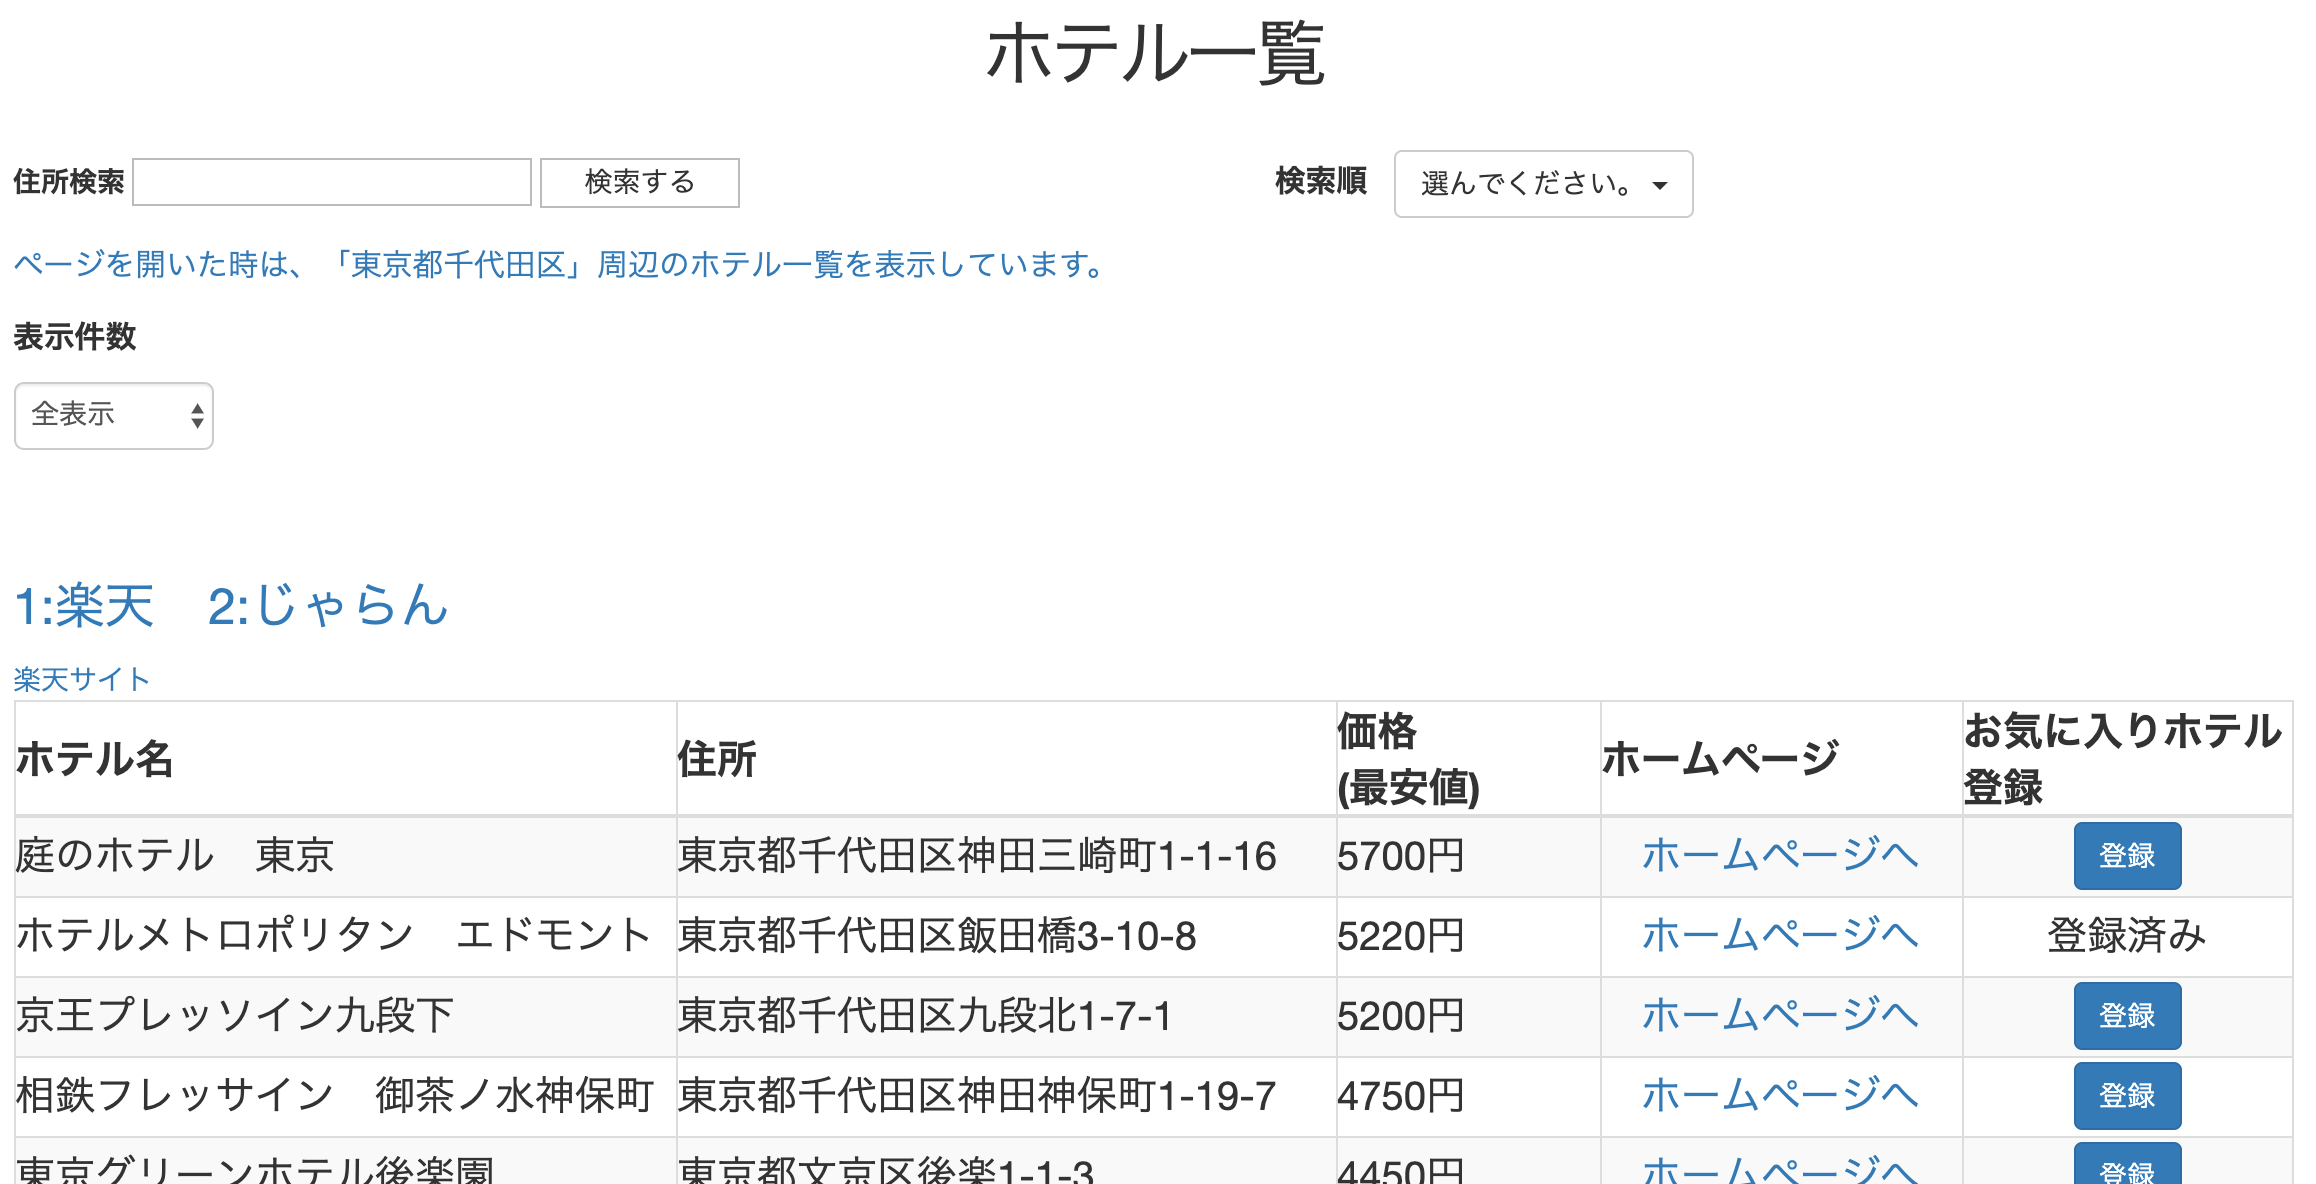
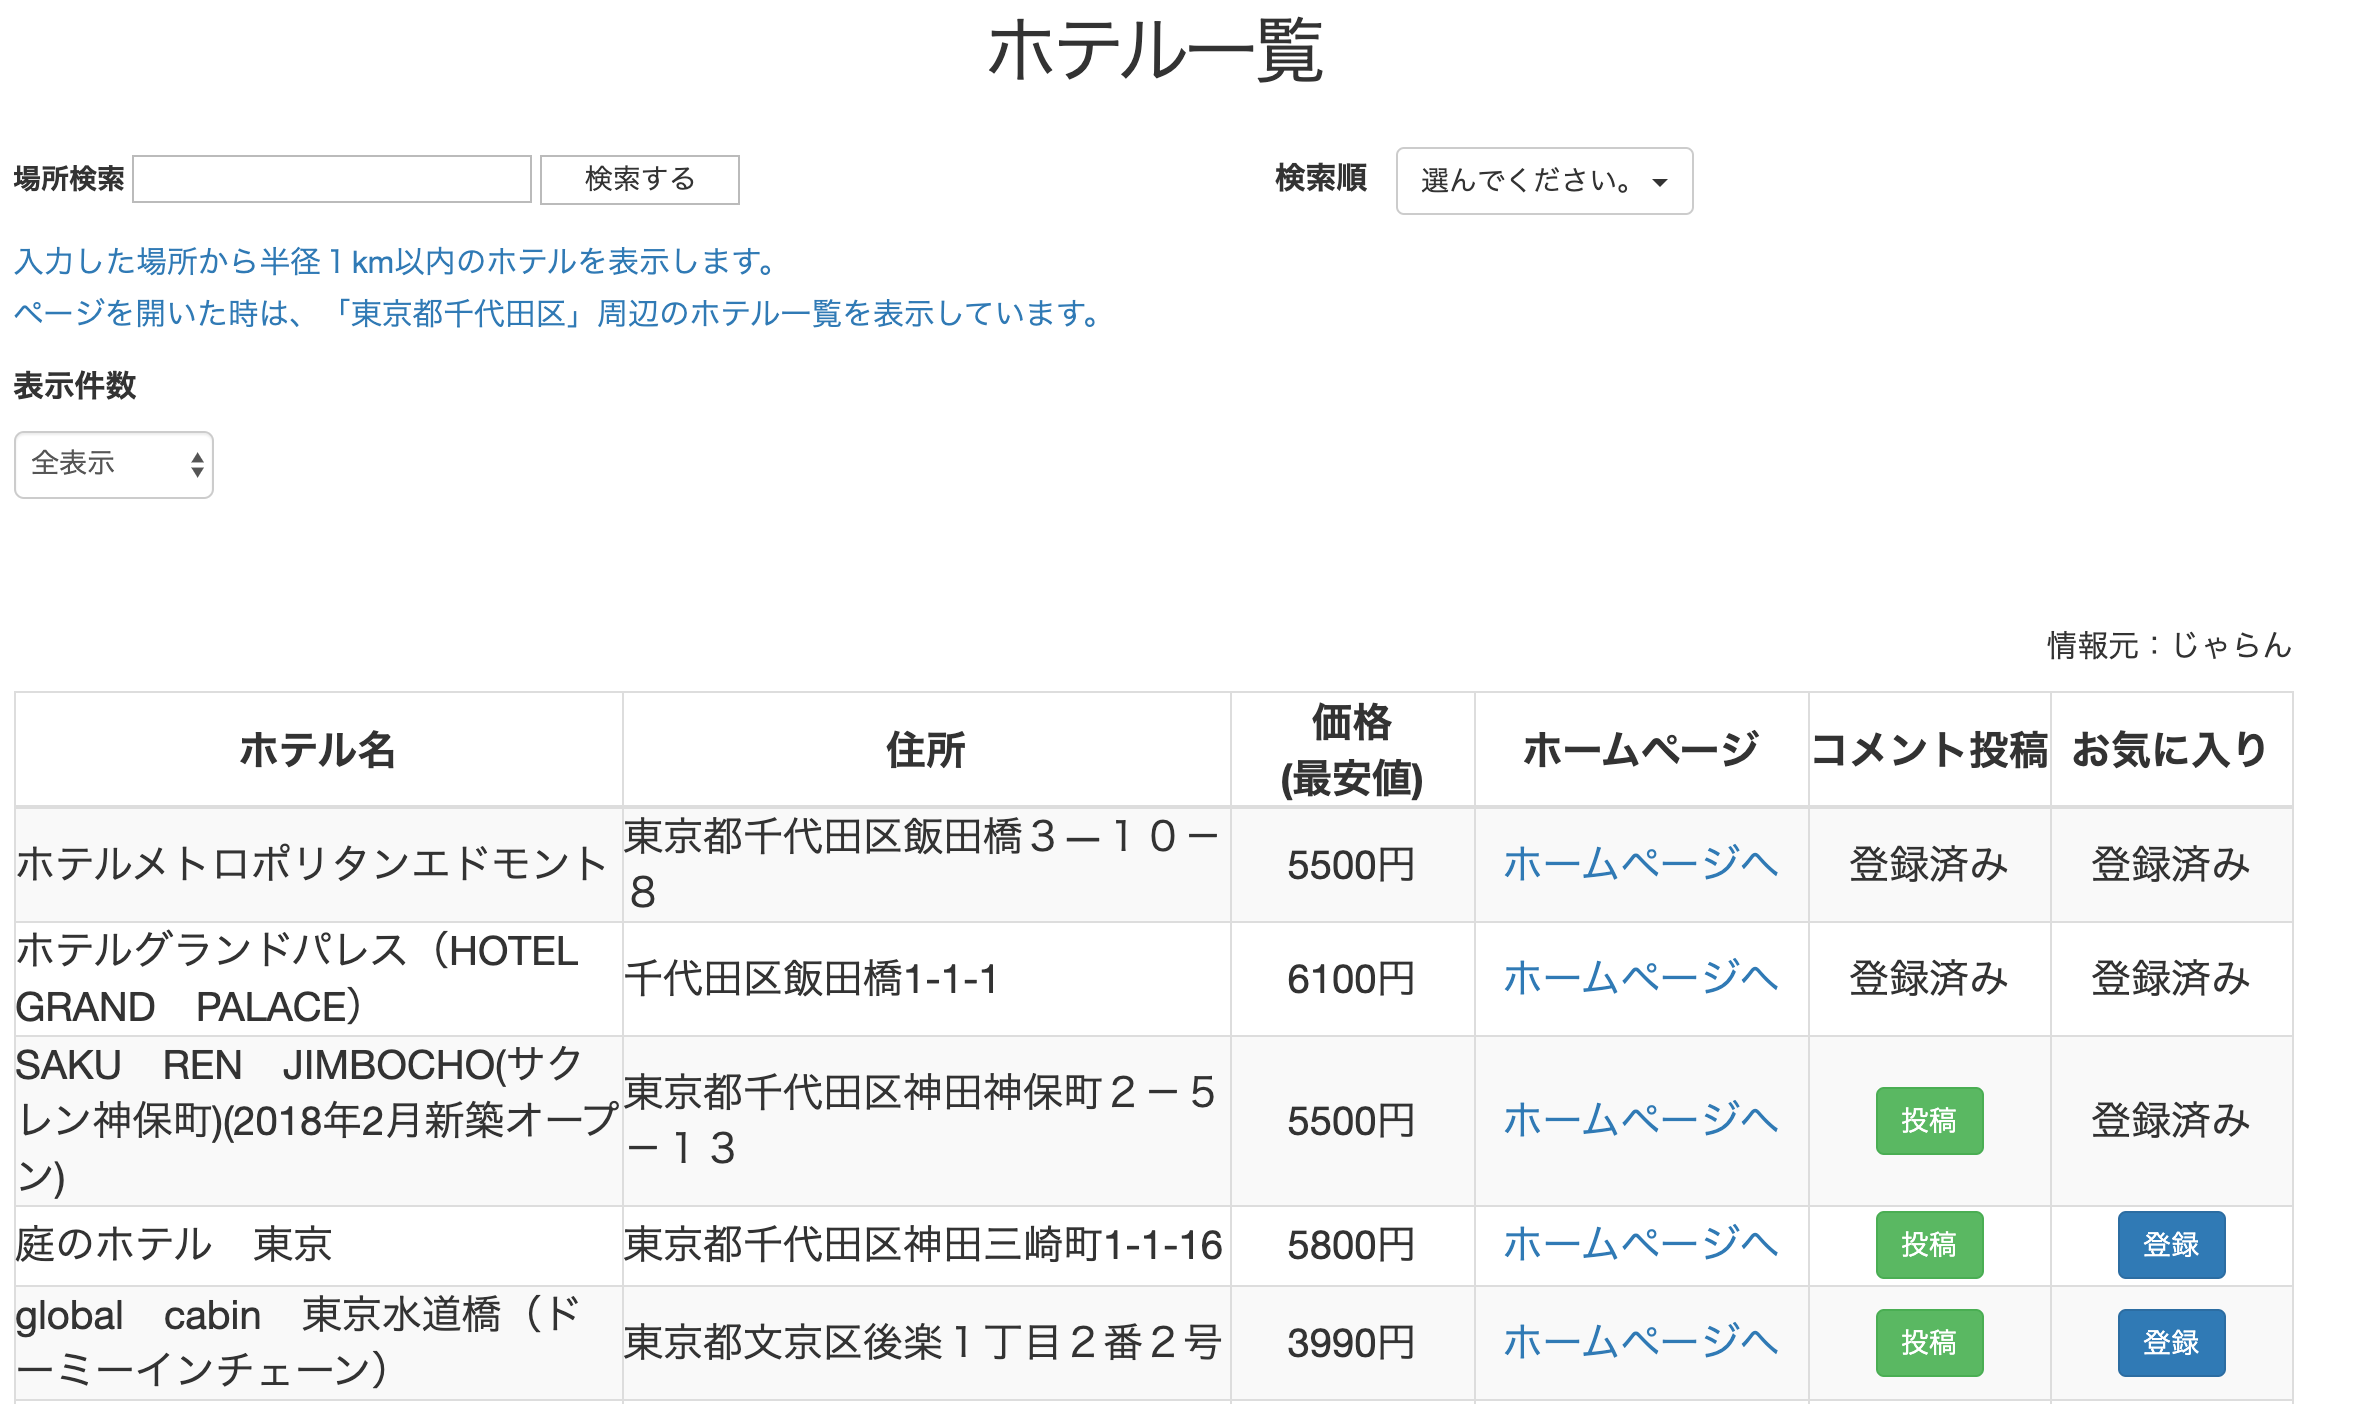
correct layout

diff --git a/app/assets/javascripts/favorite.js b/app/assets/javascripts/favorite.js
@@ -3,7 +3,7 @@ $(document).on("turbolinks:load", function() {
   var widthnewFlag = "sp";
   WindowFavoriteNewSize ();
   WindowFavoriteEditSize ();
-  SpMemoCommentShow();
+  SpMemoShow();
   //スマホとPCのお気に入り登録画面について
   function WindowFavoriteNewSize (){
     var sp_hotel = $('#sp_hotel').data("id");
@@ -60,17 +60,17 @@ $(document).on("turbolinks:load", function() {
   });
   
   //　お気に入り一覧画面のメモの表示と非表示の切り替え
-  function SpMemoCommentShow(){
-    $(".sp_memo_comment").hide();
-    $(".display").click(function() {
+  function SpMemoShow(){
+    $(".sp_memo").hide();
+    $(".memo_display").click(function() {
       if($(this).hasClass('hotel_close')){
-        $(this).siblings(".sp_memo_comment").show();
+        $(this).siblings(".sp_memo").show();
         $(this).removeClass("hotel_close");
-        $(this).text("<非表示にする>");
+        $(this).text("<メモを非表示にする>");
       }else{
-        $(this).siblings(".sp_memo_comment").hide();
+        $(this).siblings(".sp_memo").hide();
         $(this).addClass("hotel_close");
-        $(this).text("<表示にする>");
+        $(this).text("<メモを表示する>");
       }
     });
   }

diff --git a/app/assets/javascripts/post.js b/app/assets/javascripts/post.js
@@ -3,6 +3,7 @@ $(document).on("turbolinks:load", function() {
   var widthnewFlag = "sp";
   WindowPostNewSize ();
   WindowPostEditSize ();
+  SpCommentShow();
 //スマホとPCのコメント登録画面について
   function WindowPostNewSize (){
     var sp_hotel = $('#sp_post_hotel').data("id");
@@ -51,6 +52,22 @@ $(document).on("turbolinks:load", function() {
       }
     }
   };
+  
+   //　お気に入り一覧画面のメモの表示と非表示の切り替え
+  function SpCommentShow(){
+    $(".sp_user_comment").hide();
+    $(".comment_display").click(function() {
+      if($(this).hasClass('hotel_close')){
+        $(this).siblings(".sp_user_comment").show();
+        $(this).removeClass("hotel_close");
+        $(this).text("<コメントを非表示にする>");
+      }else{
+        $(this).siblings(".sp_user_comment").hide();
+        $(this).addClass("hotel_close");
+        $(this).text("<コメントを表示する>");
+      }
+    });
+  }
   
    // スマホとPC表示を切り換えた時
   $(window).on( 'resize', function() {

diff --git a/app/assets/javascripts/hotel.js b/app/assets/javascripts/hotel.js
@@ -51,7 +51,7 @@ $(document).on("turbolinks:load", function() {
     });
   }
   
-  //お気に入り一覧画面のメモの一部表示と全表示の切り替え
+  //お気に入り一覧画面のメモと自身のコメント投稿画面の一部表示と全表示の切り替え
   function MemoCommentShow(){
     $(".all_display").hide();
     $(".partical_display").show();
@@ -65,7 +65,7 @@ $(document).on("turbolinks:load", function() {
         $(this).siblings(".all_display").hide();
         $(this).siblings(".partical_display").show();
         $(this).addClass("hotel_close");
-        $(this).text("<続きを読む>");
+        $(this).text("<続きを表示する>");
       }
     });
   }

diff --git a/app/assets/stylesheets/custom.scss b/app/assets/stylesheets/custom.scss
@@ -426,7 +426,6 @@ td{
     /*　画面サイズが768pxまではここを読み込む　*/
     
   .site_title{
-    background-size:contain;
     height:255px;
     h1{
       color:white;
@@ -469,10 +468,11 @@ td{
   }
     
   //hotel
+
   .hotel_sp_index{
     list-style-type:none;
     li{
-      margin-top:10px;
+      margin-top:25px;
       margin-left:-25px;
       font-size:30px;
       background-color:#DDDDDD;
@@ -549,12 +549,12 @@ td{
     display:inline-block;
   }
   
-  .display{
+  .memo_display,.comment_display{
     color:blue;
     font-size:15px;
   }
   
-  .sp_memo_commewnt{
+  .sp_memo,.sp_comment{
     word-wrap: break-word;
   }
   //hotel post

diff --git a/db/seeds.rb b/db/seeds.rb
@@ -21,20 +21,37 @@ User.create!(name:  "管理者",
 end
 
 
-Favorite.create!(number:322536,name:"ホテルメトロポリタンエドモント",memo:"価格が少し高いのが難点だが,内装が豪華で接客もよかった。あと,駅から近いのもよい",user_id:2);
+Favorite.create!(number:322536,name:"ホテルメトロポリタンエドモント",memo:"価格が少し高いのが難点だが,部屋の内装が豪華で従業員の接客も親切でとてもよかった。あと,食事も豪華で美味しく、駅から近くアクセスもよい。
+                                                                           とてもいい1日を過ごせました。また機会を見つけて、是非利用したいと思います。",user_id:2);
 Favorite.create!(number:322305,name:"ホテルグランドパレス（HOTEL　GRAND　PALACE）",
                   memo:"価格がとてもリーズブルだったが,やや駅から遠いのが難点",user_id:2);
 Favorite.create!(number:397528,name:"SAKU　REN　JIMBOCHO(サクレン神保町)",
+                  memo:"部屋が清潔感にあふれていたがその割に価格がよかった",user_id:2);
+                  
+Favorite.create!(number:305158,name:"ＫＫＲホテル東京（国家公務員共済組合連合会東京共済会館）",memo:"価格が少し高いのが難点だが,部屋の内装が豪華で従業員の接客も親切でとてもよかった。あと,食事も豪華で美味しく、駅から近くアクセスもよい。
+                                                                           とてもいい1日を過ごせました。また機会を見つけて、是非利用したいと思います。",user_id:2);
+Favorite.create!(number:316850,name:"ナインアワーズ大手町（旧：竹橋）",
+                  memo:"価格がとてもリーズブルだったが,やや駅から遠いのが難点",user_id:2);
+Favorite.create!(number:314177,name:"東京グリーンホテル後楽園",
                   memo:"部屋が清潔感にあふれていたがその割に価格がよかった",user_id:2);
                   
 Favorite.create!(number:397528,name:"SAKU　REN　JIMBOCHO(サクレン神保町)",
                   memo:"部屋が清潔感にあふれていたがその割に価格がよかった",user_id:3);
                   
 
-Post.create!(number:322536,name:"ホテルメトロポリタンエドモント",comment:"価格が少し高いのが難点だが,内装が豪華で接客もよかった。あと,駅から近いのもよい",user_id:2);
+Post.create!(number:322536,name:"ホテルメトロポリタンエドモント",comment:"価格が少し高いのが難点だが,部屋の内装が豪華で従業員の接客も親切でとてもよかった。あと,食事も豪華で美味しく、駅から近くアクセスもよい。
+                                                                           とてもいい1日を過ごせました。また機会を見つけて、是非利用したいと思います。",user_id:2);
 Post.create!(number:322305,name:"ホテルグランドパレス（HOTEL　GRAND　PALACE）",
                   comment:"価格がとてもリーズブルだったが,やや駅から遠いのが難点",user_id:2);
 Post.create!(number:397528,name:"SAKU　REN　JIMBOCHO(サクレン神保町)",
                   comment:"部屋が清潔感にあふれていたがその割に価格がよかった",user_id:2);
+                  
+Post.create!(number:316850,name:"ナインアワーズ大手町（旧：竹橋）",comment:"価格が少し高いのが難点だが,部屋の内装が豪華で従業員の接客も親切でとてもよかった。あと,食事も豪華で美味しく、駅から近くアクセスもよい。
+                                                                           とてもいい1日を過ごせました。また機会を見つけて、是非利用したいと思います。",user_id:2);
+Post.create!(number:314177,name:"東京グリーンホテル後楽園",
+                  comment:"価格がとてもリーズブルだったが,やや駅から遠いのが難点",user_id:2);
+Post.create!(number:305158,name:"ＫＫＲホテル東京（国家公務員共済組合連合会東京共済会館）",
+                  comment:"部屋が清潔感にあふれていたがその割に価格がよかった",user_id:2);
+                  
 Post.create!(number:397528,name:"SAKU　REN　JIMBOCHO(サクレン神保町)",
-                  comment:"部屋が清潔感にあふれていたがその割に価格がよかった",user_id:3);
+                  comment:"部屋が清潔感にあふれていたがその割に価格がよかった",user_id:3);      

diff --git a/app/controllers/posts_controller.rb b/app/controllers/posts_controller.rb
@@ -1,4 +1,5 @@
 class PostsController < ApplicationController
+  
   before_action :logged_in
   before_action :logged_only_current_user, except: [:index]
   
@@ -6,8 +7,13 @@ class PostsController < ApplicationController
 
   def index
     @search = params[:search]
-    @counts = { "全表示" => 5000, "1" => 1,  "5" => 5,  "10" => 10, "20" => 20, "50" => 50, "100" => 100}
-    @posts = Post.search(@search)
+    @counts = { "全表示" => 5000, "5" => 5,  "10" => 10, "20" => 20, "50" => 50, "100" => 100}
+    if Post.search(@search).present? && @search != ""
+      @posts = Post.search(@search)
+    else
+      flash[:danger] = "ホテルが存在しませんでした。"
+      redirect_to user_posts_url(current_user)
+    end
   end
  
   def user_index
@@ -45,7 +51,6 @@ class PostsController < ApplicationController
     @post = Post.find(params[:id])
   end
   
-  
   def update
     @post = Post.find(params[:id])
     if @post.update_attributes(post_params)
@@ -60,9 +65,9 @@ class PostsController < ApplicationController
     @post = Post.find(params[:id])
     if @post.destroy
       flash[:success] = "コメントを削除しました。"
-      redirect_to user_posts_url(current_user)
+      redirect_to user_posts_index_url(current_user)
     else
-      render 'user_index'
+      render 'edit'
     end
   end
   

diff --git a/app/controllers/favorites_controller.rb b/app/controllers/favorites_controller.rb
@@ -25,19 +25,19 @@ class FavoritesController < ApplicationController
   end 
  
   def index
-    @per_pages = ["全表示",5,10,20]
+    @per_pages = ["全表示",5,10]
     if params[:per_page] == nil || params[:per_page] == "全表示"
       @page = "全表示"
-      @hotels = @user.favorites
+      @hotels = current_user.favorites
     else  
       @page = params[:per_page]
-      @hotels = @user.favorites.paginate(page: params[:page], per_page: @page)
+      @hotels = current_user.favorites.paginate(page: params[:page], per_page: @page)
     end
   end
  
   def destroy
-    @hotel = Favorite.find(params[:id])
-    if @hotel.destroy
+    @favorite = Favorite.find(params[:id])
+    if @favorite.destroy
       flash[:success] = "お気に入り情報を削除しました。"
       redirect_to user_favorites_url(current_user)
     else
@@ -52,7 +52,7 @@ class FavoritesController < ApplicationController
   def update
     @favorite = Favorite.find(params[:id])
     if @favorite.update_attributes(hotel_params)
-      flash[:success] = "お気に入りホテル情報を更新しました。"
+      flash[:success] = "お気に入り情報を更新しました。"
       redirect_to user_favorites_url(current_user)
     else
       render "edit"

diff --git a/app/controllers/application_controller.rb b/app/controllers/application_controller.rb
@@ -29,18 +29,18 @@ class ApplicationController < ActionController::Base
   
     # ログイン済みの自分以外のユーザに入れない
     def logged_only_current_user
-       if user_logged_in?
-         if params[:user_id]
+      if logged_in? && current_user.admin == false
+        if params[:user_id]
           @user = User.find(params[:user_id])
-         else
+        else
           @user = User.find(params[:id])
-         end
-          #自分以外のユーザーでなければ
-          unless current_user?(@user)
-             flash[:danger] ="他のユーザーのサイトにはアクセスできません。"
-             redirect_to hotels_url
-          end
-       end
+        end
+         #自分以外のユーザーでなければ
+        unless current_user?(@user)
+          flash[:danger] ="他のユーザーのサイトにはアクセスできません。"
+          redirect_to hotels_url
+        end
+      end
     end
 
   

diff --git a/app/controllers/hotels_controller.rb b/app/controllers/hotels_controller.rb
@@ -11,21 +11,19 @@ class HotelsController < ApplicationController
     @search = params[:search]
     order = params[:key]? params[:key]:4
     if params[:key] == "4"
-       sort = "standard"
+      sort = "standard"
     elsif params[:key] == "2"
-       sort = "+roomCharge"
+      sort = "+roomCharge"
     else
-       sort = "-roomCharge"
+      sort = "-roomCharge"
     end
-
     if @search == nil
-       place = Geocoder.coordinates("東京都千代田区")
+      place = Geocoder.coordinates("東京都千代田区")
     else
-       place = Geocoder.coordinates(@search)
+      place = Geocoder.coordinates(@search)
     end
     @counts = { "全表示" => 5000, "5" => 5,  "10" => 10, "20" => 20, "50" => 50, "100" => 100}
     @sorts = { "2" => "平均価格の安い順",  "3" => "平均価格の高い順","4" => "おすすめ順"}
-    
     @hotels = []
     begin
       key = "leo157613fc400"

diff --git a/app/controllers/users_controller.rb b/app/controllers/users_controller.rb
@@ -35,9 +35,9 @@ class UsersController < ApplicationController
   end
   
   def destroy
-    user = User.find(params[:id])
-    if user.destroy
-      flash[:success] = user.name + "さんのユーザー情報を削除しました。"
+    @user = User.find(params[:id])
+    if @user.destroy
+      flash[:success] = @user.name + "さんのユーザー情報を削除しました。"
       redirect_to users_url 
     end
   end
@@ -45,7 +45,7 @@ class UsersController < ApplicationController
   def update
     @user = User.find(params[:id])
     if @user.update_attributes(user_params)
-      flash[:success] = @user.name + "さんのプロフィールを更新しました。"
+      flash[:success] = @user.name_before_last_save + "さんのプロフィールを更新しました。"
       redirect_to edit_user_url(@user)
     else
       render "edit"
